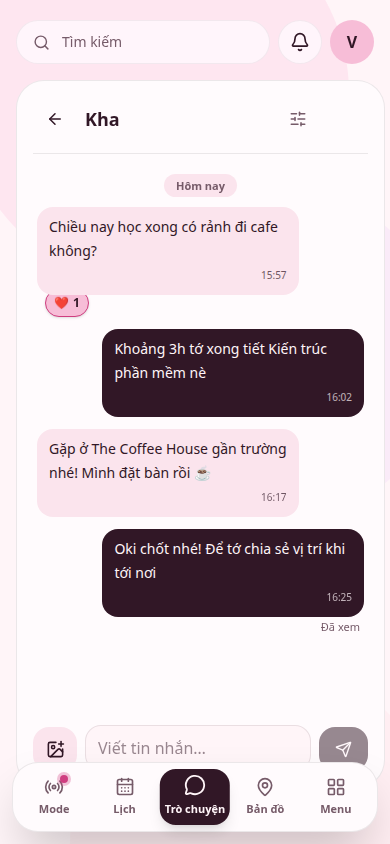
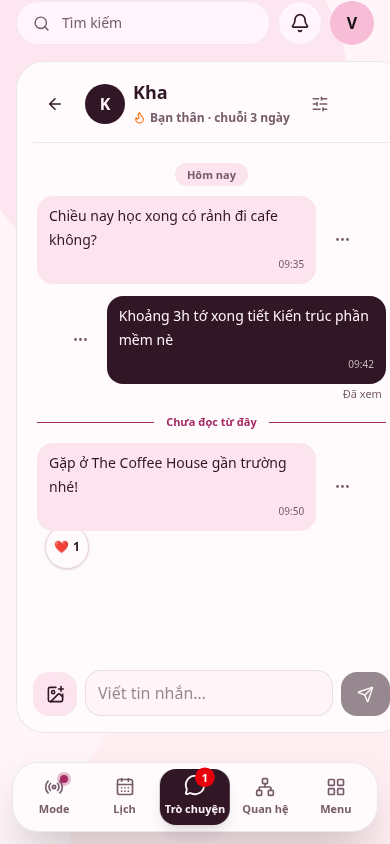
docs: refresh README and landing page previews

diff --git a/src/app/landing/drawings.tsx b/src/app/landing/drawings.tsx
@@ -1,4 +1,4 @@
-import { CalendarCheck2, CalendarDays, Camera, Clock, Coffee, Gamepad2, BookOpen, Heart, LayoutGrid, MapPin, MessageCircle, Radio, Smile } from "lucide-react";
+import { CalendarCheck2, CalendarDays, Camera, Clock, Coffee, Gamepad2, BookOpen, Heart, LayoutGrid, MessageCircle, Network, Radio, Smile } from "lucide-react";
 import type { CSSProperties, ReactNode } from "react";
 import { t } from "../../kernel/i18n";
 
@@ -107,7 +107,7 @@ export const MeetDrawing = () => <div aria-hidden className={`${tile} relative`}
 
 /** The bar at the bottom of the app, with a number on each of its five screens. */
 export function BarDrawing() {
-  const tabs = [Radio, CalendarDays, MessageCircle, MapPin, LayoutGrid];
+  const tabs = [Radio, CalendarDays, MessageCircle, Network, LayoutGrid];
   return <div aria-hidden className="glass mx-auto flex max-w-md justify-between rounded-[1.6rem] border border-[var(--border)] px-3 py-2 shadow-lg">
     {tabs.map((Icon, index) => <span key={index} className={`relative grid size-12 place-items-center rounded-2xl ${index === 0 ? "bg-[var(--ink)] text-[var(--paper)]" : "text-[var(--muted)]"}`}>
       <Icon size={20} />
@@ -140,18 +140,17 @@ export const screenDrawings: ReactNode[] = [
       <span className="block h-6 w-16 rounded-2xl rounded-bl-md bg-[var(--surface)]" />
     </div>
   </div>,
-  // Map: roads, water, two friends.
-  <div key="map" aria-hidden className={`${tile} relative`}>
-    <svg viewBox="0 0 200 112" className="absolute inset-0 size-full">
-      <path d="M150-10c-30 30 10 60-20 90s20 40 80 40V-10z" className="fill-[color-mix(in_srgb,var(--tone-class)_22%,var(--soft))]" />
-      <path d="M-10 40c60 10 80 40 140 30" fill="none" className="stroke-[var(--surface)]" strokeWidth="10" strokeLinecap="round" />
-      <path d="M40-10c0 50 30 70 20 130" fill="none" className="stroke-[var(--surface)]" strokeWidth="7" strokeLinecap="round" />
-      <circle cx="26" cy="86" r="16" className="fill-[color-mix(in_srgb,var(--lime)_45%,var(--soft))]" />
+  // Relationships: a person connected to friends, drawn with plain lines and initials.
+  <div key="relationships" aria-hidden className={`${tile} px-4`}>
+    <svg viewBox="0 0 200 112" className="w-full max-w-52">
+      <path d="M62 56h38M100 56l38-30M100 56l38 30" fill="none" className="stroke-[var(--border)]" strokeWidth="3" strokeLinecap="round" />
+      <circle cx="52" cy="56" r="24" className="fill-[var(--ink)]" />
+      <text x="52" y="61" textAnchor="middle" className="fill-[var(--paper)] text-[14px] font-bold">V</text>
+      <circle cx="152" cy="24" r="21" className="fill-[var(--surface)] stroke-[var(--border)]" strokeWidth="2" />
+      <text x="152" y="29" textAnchor="middle" className="fill-[var(--ink)] text-[13px] font-bold">K</text>
+      <circle cx="152" cy="88" r="21" className="fill-[var(--surface)] stroke-[var(--border)]" strokeWidth="2" />
+      <text x="152" y="93" textAnchor="middle" className="fill-[var(--ink)] text-[13px] font-bold">L</text>
     </svg>
-    <span className="relative flex items-end gap-10">
-      <span className="marker-live relative grid size-9 place-items-center rounded-full border-2 border-white bg-[#24151f] text-xs font-black text-white shadow-lg">L</span>
-      <span className="grid size-9 place-items-center rounded-full border-2 border-dashed border-white bg-gray-500 text-xs font-black text-white shadow-lg">T</span>
-    </span>
   </div>,
   // Menu: everything else.
   <div key="menu" aria-hidden className={tile}>

diff --git a/src/app/landing/LandingPage.tsx b/src/app/landing/LandingPage.tsx
@@ -50,7 +50,7 @@ export default function LandingPage() {
     { name: "Mode", text: t("Ai đang làm gì, ngay lúc này. Story mất sau 24 giờ, ảnh vẫn được lưu vào kho.") },
     { name: t("Lịch"), text: t("Sự kiện, thời khóa biểu và nhập file .ics.") },
     { name: t("Trò chuyện"), text: t("Nhắn riêng, nhắn nhóm và gửi ảnh.") },
-    { name: t("Bản đồ"), text: t("Thấy những người bạn đang chia sẻ vị trí với bạn, trong thời hạn họ chọn.") },
+    { name: t("Quan hệ"), text: t("Quản lý bạn bè, lời mời và vị trí được chia sẻ.") },
     { name: "Menu", text: t("Lịch, thói quen, ghi chú, nhóm và bạn bè.") },
   ];
   const circles = [

diff --git a/README.md b/README.md
@@ -1,95 +1,54 @@
 <div align="center">
 
-<img src="public/icon-512.png" alt="Gnouht Together" width="88" />
+<img src="public/icon-512.png" alt="Gnouht Together" width="72" />
 
 # Gnouht Together
 
-**Know what your friends are up to. Make plans in a few taps.**
+Plan your day and stay close to the friends you choose.
 
-A Vietnamese-first social planner and personal organizer for trusted friends and classmates.
-
-[Open the app](https://9try.gnouht.space) · [Install](#install) · [Developer docs](docs/architecture.md)
+[Open app](https://9try.gnouht.space) · [Install](#install) · [Guides](#guides)
 
 </div>
-
----
-
-## Usage snapshot
-
-<div align="center">
-
-<img src="docs/usage-metrics.svg" alt="Registered users: 28 on Oct 12, 40 on Oct 16, and 43 on Oct 23, 2026. Estimated average: 5,408 app-host requests per day; 81,068 total requests." width="100%" />
-
-</div>
-
-*Snapshot: 23 Oct 2026 UTC. The requests counter includes static assets and automated traffic; its historical baseline is sampled, so the daily average is approximate.*
 
 ## Screens
 
-<div align="center">
+<table>
+<tr><th>Mode</th><th>Calendar</th></tr>
+<tr><td><img src="docs/screenshots/hero.png" alt="Mode screen" width="180" height="390" /></td><td><img src="docs/screenshots/calendar.png" alt="Calendar screen" width="180" height="390" /></td></tr>
+<tr><th>Chat</th><th>Relationships</th></tr>
+<tr><td><img src="docs/screenshots/chat.png" alt="Chat screen" width="180" height="390" /></td><td><img src="docs/screenshots/relationships.png" alt="Relationships screen" width="180" height="390" /></td></tr>
+</table>
 
-| Today | Calendar | Chat | Map |
-|:---:|:---:|:---:|:---:|
-| ![Today](docs/screenshots/hero.png) | ![Calendar](docs/screenshots/calendar.png) | ![Chat](docs/screenshots/chat.png) | ![Map](docs/screenshots/map.png) |
+## Usage snapshot
 
-</div>
+<img src="docs/usage-metrics.svg" alt="43 users and about 5,408 requests per day, based on 81,068 total requests." width="100%" />
 
-## What you can do
+*23 Oct 2026 UTC. Request average is approximate and includes static files and automated traffic.*
 
-| | |
-|---|---|
-| **🟢 Presence & friends** — Share a mode, see close friends, and plan together. | **📸 Moments** — Share a daily photo with chosen friends. |
-| **📅 Calendar** — Coordinate events, schedules, and imported timetables. | **💬 Chat** — Message friends and groups with replies, reactions, and photos. |
-| **🗺 Live map** — Share your latest location for a limited time with selected people. | **✅ Habits & notes** — Keep private routines and notes in one place. |
-| **🔒 Privacy controls** — Choose who can see your activity and location. | **📲 Bilingual PWA** — Use in Vietnamese or English; install on mobile. |
+## Features
+
+Modes, moments, chat, calendar, friend connections, shared location, habits, notes and privacy controls for small groups.
 
 ## Run locally
 
 Requires Node.js 22.12 or newer.
 
-<pre><code>cp .env.example .env.local
+```sh
+cp .env.example .env.local
 npm ci
-npm run dev</code></pre>
+npm run dev
+```
 
-Add your Supabase URL and publishable key to <code>.env.local</code>. Never put service-role keys or other server secrets in a <code>VITE_*</code> variable.
+Add the Supabase URL and publishable key to `.env.local`. `VITE_*` values are public; never put server secrets there.
 
-## Stack
+**Stack:** React · TypeScript · Vite · Supabase · MapLibre
 
-**Frontend:** React 19 · TypeScript 7 · Vite 8 · Tailwind 4<br/>
-**Backend:** Supabase Auth · Postgres with RLS · Realtime · Storage · Edge Functions<br/>
-**Maps & hosting:** MapLibre · OpenFreeMap · Cloudflare Workers
+## Guides
 
-Feature modules live in <code>src/modules/</code>; the app registers them in <code>src/app/modules.ts</code>.
-
-## Checks
-
-<pre><code>npm run typecheck
-npm test
-npm run test:db
-npm run build</code></pre>
-
-Browser tests use Playwright: <code>npm run test:e2e</code>.
-
-## Project guides
-
-| Guide | Description |
-|---|---|
-| [Architecture](docs/architecture.md) | System overview |
-| [Module guide](docs/module-guide.md) | Add a feature module |
-| [Deployment](docs/deployment.md) | Release and hosting |
-| [Permissions](docs/permission-matrix.md) | Access and privacy rules |
-| [Backup & restore](docs/backup-restore.md) | Data recovery |
-| [Costs & limits](docs/cost-and-limits.md) | Current resource notes |
+[Architecture](docs/architecture.md) · [Module guide](docs/module-guide.md) · [Deployment](docs/deployment.md) · [Permissions](docs/permission-matrix.md) · [Backup](docs/backup-restore.md)
 
 ## Install
 
-- **Android / Chrome:** Open the browser menu and choose **Install app** or **Add to Home screen**.
-- **iPhone / iPad:** In Safari, choose **Share → Add to Home Screen**. iOS push notifications require installation.
+On Android, use **Install app** in Chrome. On iPhone or iPad, use **Share → Add to Home Screen** in Safari.
 
-## Production safety
-
-The live app is hosted at [9try.gnouht.space](https://9try.gnouht.space). See the [deployment guide](docs/deployment.md) before releasing.
-
-> Do not change the <code>mcp.gnouht.space</code> DNS record, tunnel route, or Cloudflare Access policy. Never run <code>supabase db reset --linked</code> or database tests against production.
-
-Map styles in <code>public/map/</code> derive from OpenFreeMap's Positron style. Copyright © 2024 MapTiler.com and OpenMapTiles contributors; © 2015 CartoDB Inc. BSD 3-Clause (code) and CC-BY 4.0 (design).
+Never run `supabase db reset --linked` or database tests against production. Map styles derive from [OpenFreeMap Positron](docs/architecture.md#the-map); attribution and licenses are listed there.

diff --git a/docs/module-guide.md b/docs/module-guide.md
@@ -13,6 +13,10 @@
 7. Add the module to the list in `src/app/modules.ts`. This is the only edit outside the module folder.
 8. `index.ts`: export what other modules may use. Leave the file out when nothing is shared.
 
+## Keys and secrets
+
+Keep real keys, tokens and passwords out of source files, guides and screenshots. Use local environment files or the deployment secret store. `VITE_*` values ship to the browser, so only public values belong there.
+
 ## Optional contributions
 
 | To do this | Add this to the module |
